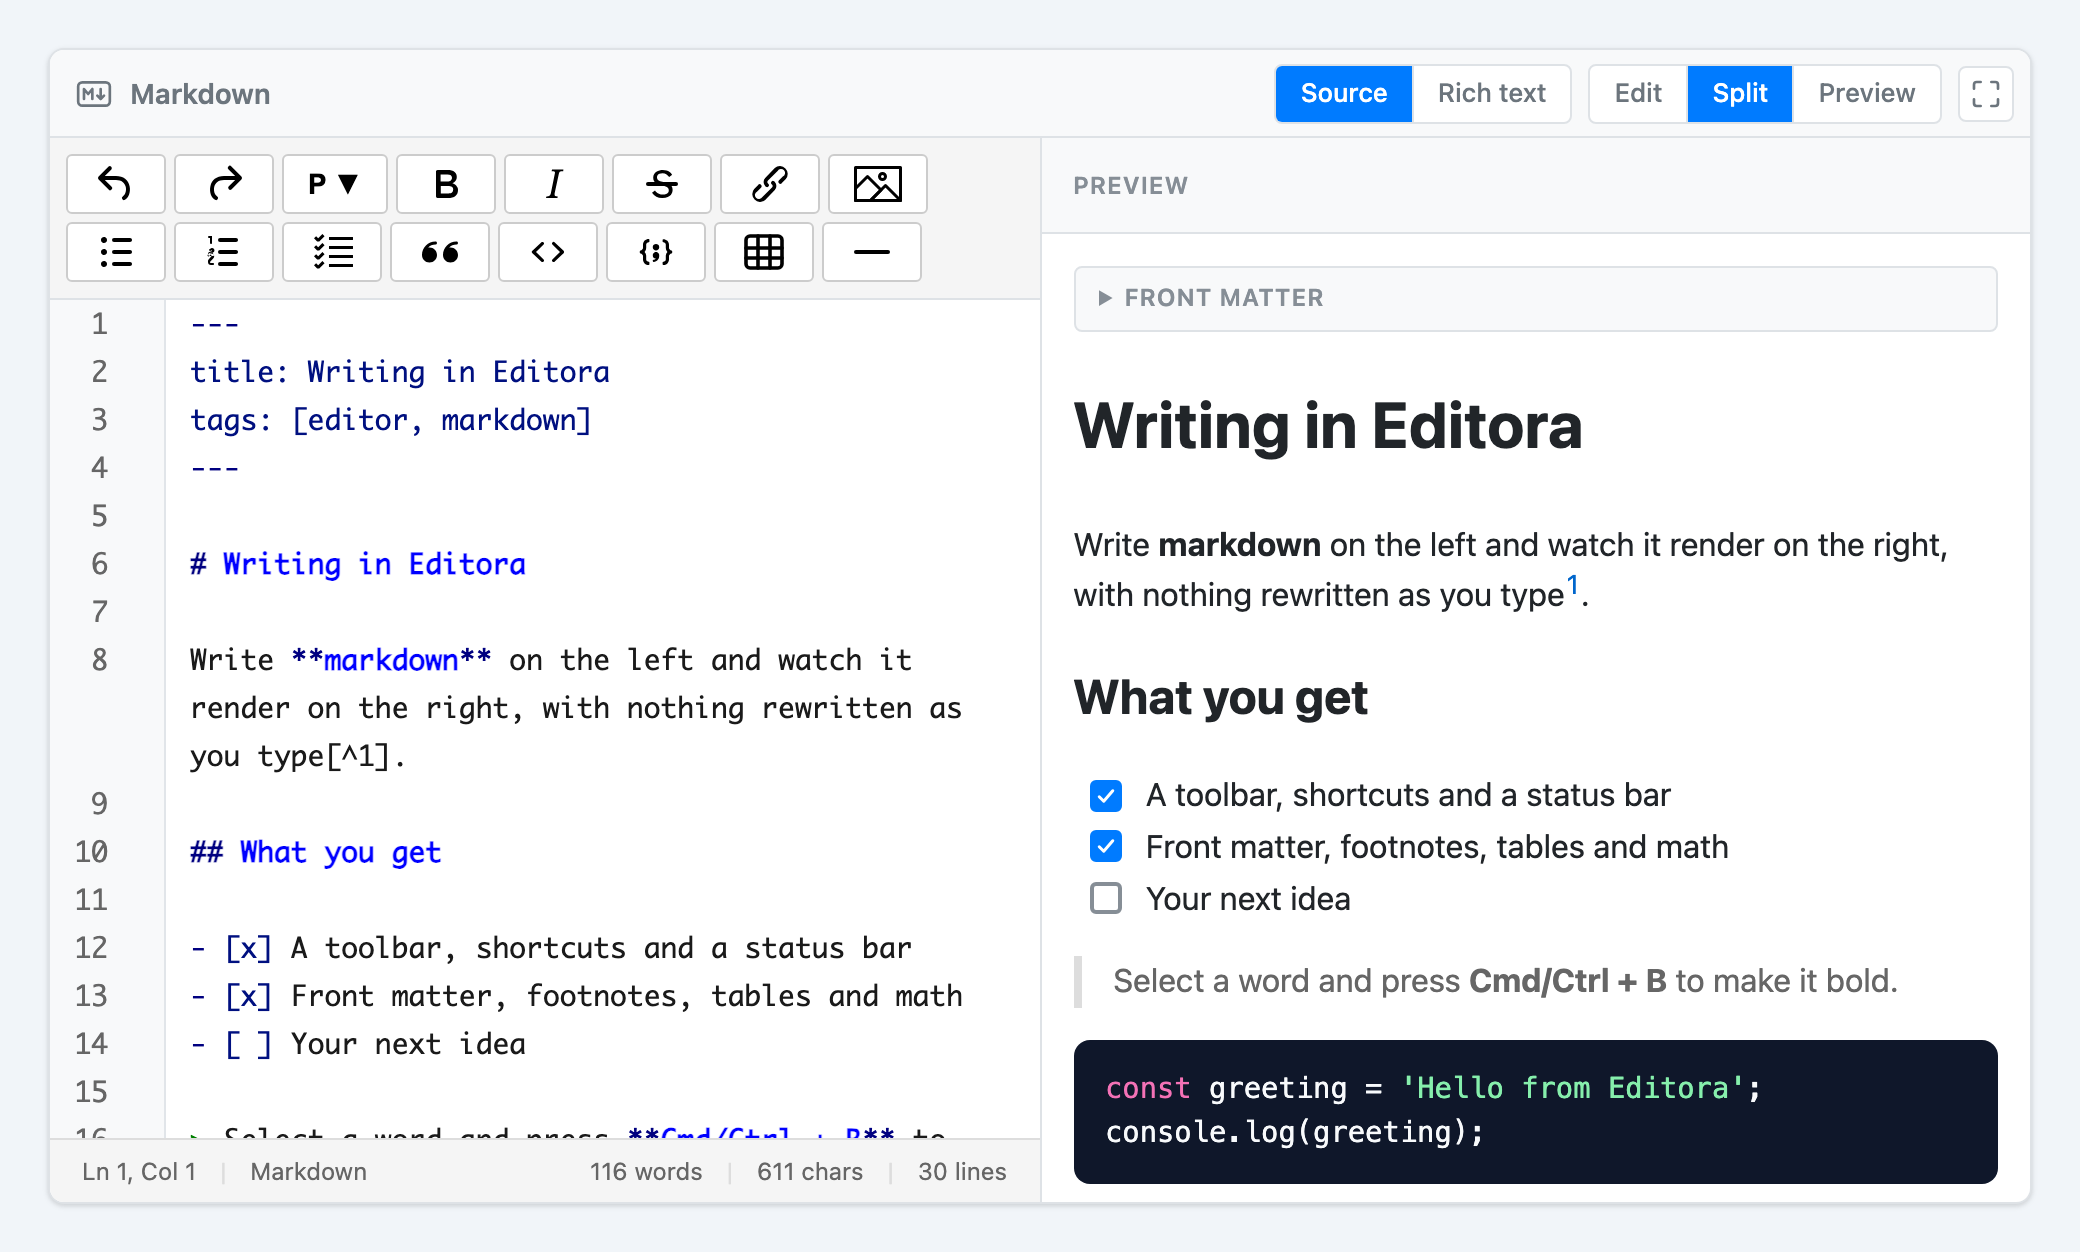
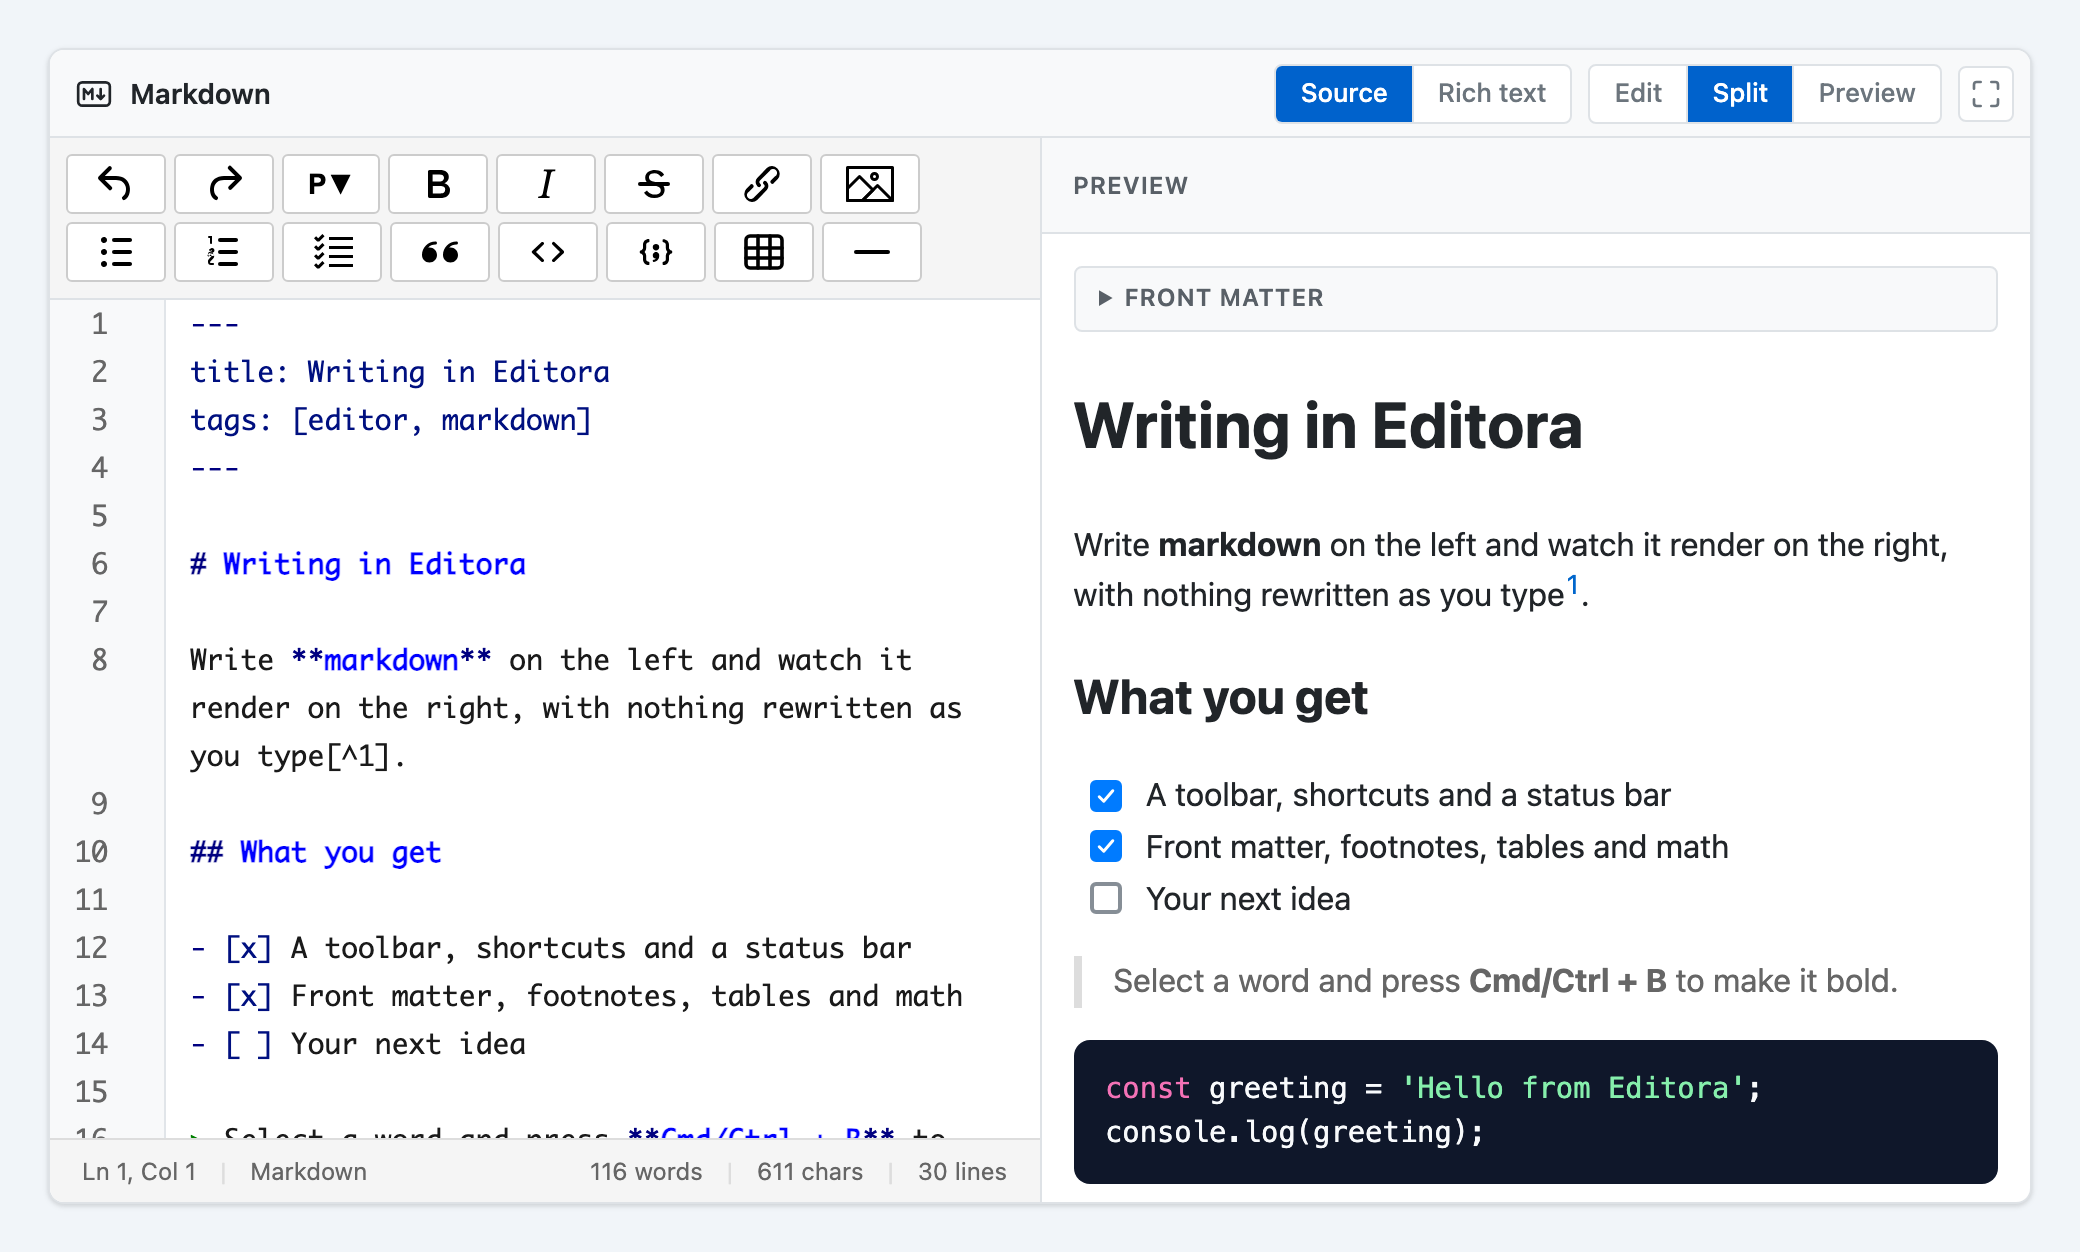
docs(markdown-editor): accessibility and keyboard notes, fresh screenshots, release notes
Adds the Tab / Escape note and an Accessibility section (what was checked, and
what was not: no screen reader, no IME outside Chromium) to the README and the
docs-site page, regenerates the five screenshots from the final build (the
selected buttons are the darker blue now), and extends the changeset with the
fixes above.

diff --git a/.changeset/markdown-editor-phase-3.md b/.changeset/markdown-editor-phase-3.md
@@ -2,10 +2,17 @@
 "@editora/markdown-editor": minor
 ---
 
-Keep typing fast in long documents, publish a smaller package, and add screenshots to the README.
+Keep typing fast in long documents, publish a smaller package, fix the accessibility and Safari problems found by checking it in real browsers, and add screenshots to the README.
 
 - **Long documents.** Building the preview of a document of several thousand lines takes a few hundred milliseconds, and it was done after every character. While the source pane is being typed in beside it, the preview of a long document (20,000 characters or more) whose last build was slow now waits for a pause in the typing (a pause of twice the build time, between 120 ms and 1 s) and is never older than 2 s. A document that is short or quick to build is rebuilt in the same render as before, so nothing changes for it. Typing in a 6,600-line document in split view blocked the page for about 1.1 s per character; it is now the browser's own cost of editing (about 130 ms) with the preview and the highlighting following when the typing pauses. (The line-number work in `@editora/light-code-editor` is part of this.)
 - **Smaller package.** `marked` and `marked-footnote` were listed as dependencies and also bundled into the build, so they were installed and shipped twice. They are now left to the bundler: the published files go from 134 KB to 78 KB (ESM) and 104 KB to 63 KB (CJS), and a project that already uses `marked` shares its copy.
-- **README** with screenshots (split view, dark theme, rich text, the preview's front matter, footnotes and math).
+- **Accessibility** (found with axe-core, WCAG 2.2 AA, and by keyboard in Chromium, Firefox and WebKit; axe now reports nothing in light or dark, in any view):
+  - **No keyboard trap.** Tab indents in the source pane, so a keyboard user who tabbed in could not get out, and every Tab press edited the document. Escape then Tab (or Shift+Tab) now leaves it (the fix is in `@editora/light-code-editor`), and the text area is described by a new translatable hint, `labels.sourceHint`, so assistive technology can announce this.
+  - **Contrast.** The selected view button (white on `#007bff`, 3.97:1), the title, the preview's label, the front matter's title, the empty state and the placeholder were below 4.5:1. They are darkened (dark theme unchanged, it already read well).
+  - **Names.** The heading button and its menu items start with the glyph they show (`H2 Heading level: Heading 2`), so a name that can be read can be said; the arrow is hidden from assistive technology. The checkboxes of task items in the preview have names, new labels `taskDone` and `taskTodo`.
+  - **Preview.** It is one named region (it was a `section` with the name, around a scrolling `div`) and can be focused, so a keyboard can scroll it, with a visible focus ring.
+- **Safari: Escape in fullscreen.** Safari does not focus a button when it is clicked, so after pressing the fullscreen button the editor never heard Escape and could only be left with the button. Escape is now heard wherever the focus is (and still yields to a menu or the find panel that handled it).
+- **Footnote numbers** no longer make their line taller than the lines around them.
+- **README** with screenshots (split view, dark theme, rich text, the preview's front matter, footnotes and math), an Accessibility section and the keyboard notes.
 
 **Version:** this is a minor release because the default editing surface changed to the markdown source in this series (pass `editorType="rich"` for the previous behaviour), which for a 0.x package is the version that tells people to look.

diff --git a/examples/editora-docs/docs/packages/markdown-editor.md b/examples/editora-docs/docs/packages/markdown-editor.md
@@ -75,6 +75,9 @@ lost, whatever it contains (HTML blocks, footnotes, front matter, odd spacing...
   description) and Table inserts a 3x2 table with the first header selected, with the blank lines around it that
   markdown needs.
 - **Shortcuts**: Cmd/Ctrl+B bold, +I italic, +Shift+X strikethrough, +E inline code, +K link.
+- **Tab** indents (Shift+Tab outdents). So that the keyboard is never stuck in the editor, **Escape** lets go of Tab:
+  press Escape, then Tab (or Shift+Tab), and the focus moves on. The text area is described by this hint (the
+  `sourceHint` label), so assistive technology can announce it.
 - **Enter** in a list or quote carries the marker to the next line (numbers count up, task boxes start unchecked),
   splits an item when pressed in the middle of it, and ends the list on an empty item.
 - A status bar with line and column, selection size, and word, character and line counts.
@@ -190,6 +193,16 @@ rich-text surface, which belongs to `@editora/react`.
 The editor reads the `--rte-*` variables of `@editora/themes`. `--md-fullscreen-z-index` (default `9999`) sets the
 layer of the fullscreen editor, and the `md-` classes (`md-editor`, `md-preview`, `md-front-matter`, ...) are there
 to restyle.
+
+## Accessibility
+
+The editor is checked with axe-core against WCAG 2.2 AA (light and dark themes, every view, the heading menu open,
+fullscreen), and by keyboard and touch in Chromium, Firefox and WebKit. It has not been tested with a screen reader or
+with an IME outside Chromium. The toolbar is one tab stop
+(arrow keys move along it), the heading menu is a keyboard-operable menu, every control has a name that contains its
+visible text, the preview is a named region that can be focused and scrolled with the keys, task-list checkboxes in
+the preview are named, and nothing is a keyboard trap (see **Tab** above). Escape also leaves fullscreen, wherever the
+focus is.
 
 ## Security
 

diff --git a/packages/markdown-editor/README.md b/packages/markdown-editor/README.md
@@ -99,6 +99,9 @@ lost, whatever it contains (HTML blocks, footnotes, front matter, odd spacing...
   description) and Table inserts a 3x2 table with the first header selected, with the blank lines around it that
   markdown needs.
 - **Shortcuts**: Cmd/Ctrl+B bold, +I italic, +Shift+X strikethrough, +E inline code, +K link.
+- **Tab** indents (Shift+Tab outdents). So that the keyboard is never stuck in the editor, **Escape** lets go of Tab:
+  press Escape, then Tab (or Shift+Tab), and the focus moves on. The text area is described by this hint (the
+  `sourceHint` label), so assistive technology can announce it.
 - **Enter** in a list or quote carries the marker to the next line (numbers count up, task boxes start unchecked),
   splits an item when pressed in the middle of it, and ends the list on an empty item.
 - A status bar with line and column, selection size, and word, character and line counts.
@@ -226,6 +229,16 @@ rich-text surface, which belongs to `@editora/react`.
 The editor reads the `--rte-*` variables of `@editora/themes`. `--md-fullscreen-z-index` (default `9999`) sets the
 layer of the fullscreen editor, and the `md-` classes (`md-editor`, `md-preview`, `md-front-matter`, ...) are there
 to restyle.
+
+## Accessibility
+
+The editor is checked with axe-core against WCAG 2.2 AA (light and dark themes, every view, the heading menu open,
+fullscreen), and by keyboard and touch in Chromium, Firefox and WebKit. It has not been tested with a screen reader or
+with an IME outside Chromium. The toolbar is one tab stop
+(arrow keys move along it), the heading menu is a keyboard-operable menu, every control has a name that contains its
+visible text, the preview is a named region that can be focused and scrolled with the keys, task-list checkboxes in
+the preview are named, and nothing is a keyboard trap (see **Tab** above). Escape also leaves fullscreen, wherever the
+focus is.
 
 ## Security
 
